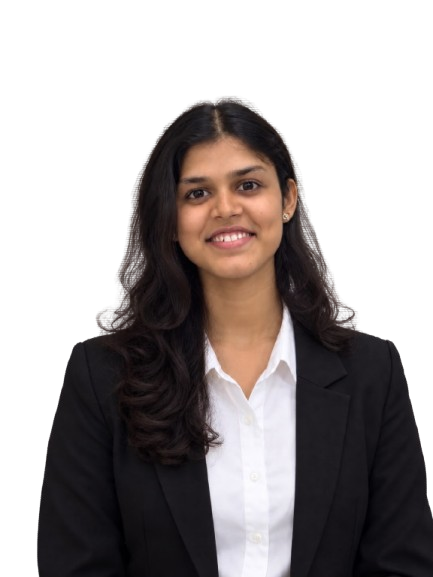
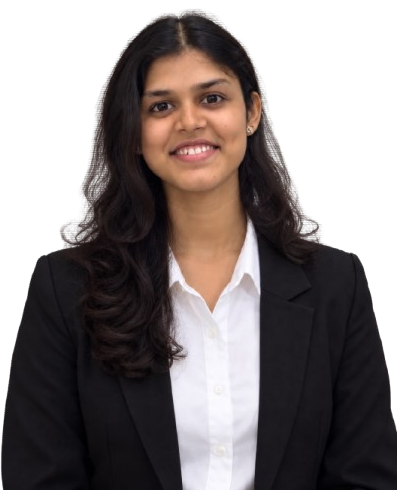
feat: zoom in portrait by removing empty top margins and expanding display container

diff --git a/src/components/Hero.tsx b/src/components/Hero.tsx
@@ -76,21 +76,21 @@ export const Hero: React.FC<HeroProps> = ({ onOpenResumeModal }) => {
             </div>
           </div>
 
-          {/* Center Column: Portrait displaying full blazer and shoulders exactly as uploaded */}
+          {/* Center Column: Portrait zoomed in, displaying full blazer and shoulders */}
           <div className="lg:col-span-4 z-10 flex justify-center order-1 lg:order-2">
-            <div className="relative w-full max-w-[320px] sm:max-w-[380px] md:max-w-[420px] lg:max-w-[460px]">
+            <div className="relative w-full max-w-[360px] sm:max-w-[440px] md:max-w-[480px] lg:max-w-[540px] xl:max-w-[580px] -my-2 sm:-my-4">
               {/* Subtle warm halo ring */}
               <div 
-                className="absolute inset-0 rounded-full bg-amber-400/25 blur-3xl scale-95 pointer-events-none"
+                className="absolute inset-0 rounded-full bg-amber-400/30 blur-3xl scale-105 pointer-events-none"
                 aria-hidden="true"
               />
 
-              {/* Portrait image with full blazer preserved exactly as uploaded */}
+              {/* Portrait image zoomed in with full blazer preserved */}
               <div className="relative overflow-visible flex justify-center">
                 <img
                   src="./gauri-hero.png"
                   alt="Gauri Vijay Kadalge — Portrait"
-                  className="w-full h-auto object-contain filter drop-shadow-md select-none transition-transform duration-700 hover:scale-[1.01]"
+                  className="w-full h-auto max-h-[580px] sm:max-h-[640px] lg:max-h-[700px] object-contain filter drop-shadow-md select-none transition-transform duration-700 hover:scale-[1.02]"
                   loading="eager"
                   decoding="async"
                 />
